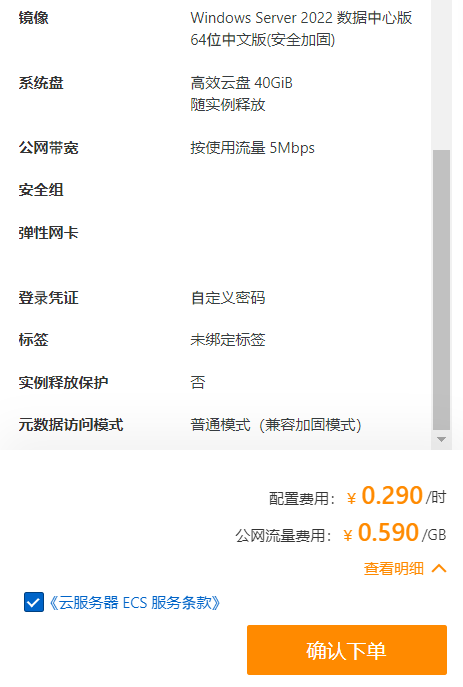
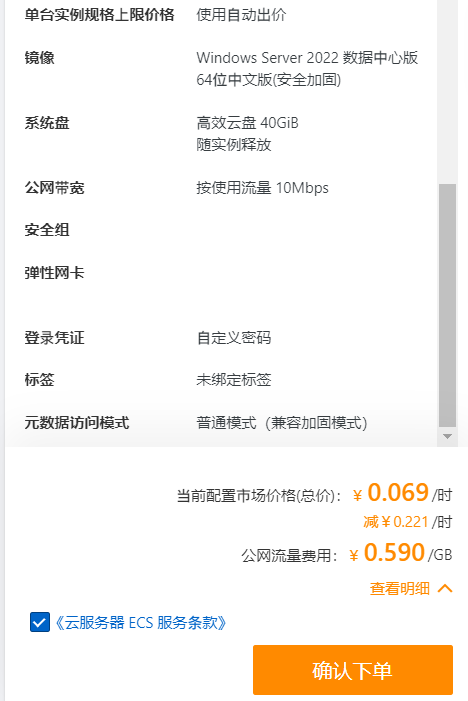
修改部分描述

diff --git a/docs/2023/04/当前环境下注册OPENAI账号的一种方法/index.html b/docs/2023/04/当前环境下注册OPENAI账号的一种方法/index.html
@@ -78,19 +78,20 @@
 </ol>
 <h2 id="为什么需要谷歌账号"><a href="#为什么需要谷歌账号" class="headerlink" title="为什么需要谷歌账号"></a>为什么需要谷歌账号</h2><p>目前OPENAI的注册逐渐收窄，只有Gmail可以稳定注册，而outlook邮箱可以概率使用，其他邮箱完全不能使用</p>
 <h2 id="为什么推荐阿里云"><a href="#为什么推荐阿里云" class="headerlink" title="为什么推荐阿里云"></a>为什么推荐阿里云</h2><p>注册需要一个用的人少，并且和cloudflare较近的服务器，阿里云作为国内云服务商，很少有人使用阿里云服务器来提供代理服务，并且提供了印度尼西亚这种节点，可以节省成本</p>
-<h1 id="具体操作"><a href="#具体操作" class="headerlink" title="具体操作"></a>具体操作</h1><h2 id="购买云服务器"><a href="#购买云服务器" class="headerlink" title="购买云服务器"></a>购买云服务器</h2><p>进入<a target="_blank" rel="noopener" href="https://ecs-buy.aliyun.com/">阿里云云服务器ECS控制台</a>，购买一个按量付费的实例，如<br><img src="/2023/04/%E5%BD%93%E5%89%8D%E7%8E%AF%E5%A2%83%E4%B8%8B%E6%B3%A8%E5%86%8COPENAI%E8%B4%A6%E5%8F%B7%E7%9A%84%E4%B8%80%E7%A7%8D%E6%96%B9%E6%B3%95/aliyun_cloud.png" alt="aliyun_cloud"><br>建议内存至少2G，CPU一核或两核足以，因为用的时间短，完全可以使用按量付费</p>
+<h1 id="具体操作"><a href="#具体操作" class="headerlink" title="具体操作"></a>具体操作</h1><h2 id="购买云服务器"><a href="#购买云服务器" class="headerlink" title="购买云服务器"></a>购买云服务器</h2><p>进入<a target="_blank" rel="noopener" href="https://ecs-buy.aliyun.com/">阿里云云服务器ECS控制台</a>，购买一个抢占型实例，如<br><img src="/2023/04/%E5%BD%93%E5%89%8D%E7%8E%AF%E5%A2%83%E4%B8%8B%E6%B3%A8%E5%86%8COPENAI%E8%B4%A6%E5%8F%B7%E7%9A%84%E4%B8%80%E7%A7%8D%E6%96%B9%E6%B3%95/alibaba_cloud.png" alt="alibaba_cloud"><br>建议内存至少2G，CPU一核或两核足以，因为用的时间短，完全可以使用按量付费</p>
 <p>因为后面需要远程桌面要服务器上面去，而Linux系统不自带桌面，所以系统选择Windows server 2022，中文与英文均可，建议不要选择2022之前的版本，因为默认浏览器为IE，不支持注册，还需要自己更换浏览器</p>
 <p>可以把默认的ESSD云盘改为高效云盘，便宜一点点</p>
 <p>流量计费建议选择按量计费，因为本身使用不了多少上行流量，还可能抹零直接全部抹掉</p>
 <p>我最后的配置是这样的</p>
 <p><img src="/2023/04/%E5%BD%93%E5%89%8D%E7%8E%AF%E5%A2%83%E4%B8%8B%E6%B3%A8%E5%86%8COPENAI%E8%B4%A6%E5%8F%B7%E7%9A%84%E4%B8%80%E7%A7%8D%E6%96%B9%E6%B3%95/config_1.png" alt="config_1"><br><img src="/2023/04/%E5%BD%93%E5%89%8D%E7%8E%AF%E5%A2%83%E4%B8%8B%E6%B3%A8%E5%86%8COPENAI%E8%B4%A6%E5%8F%B7%E7%9A%84%E4%B8%80%E7%A7%8D%E6%96%B9%E6%B3%95/config_2.png" alt="config_2"></p>
+<p>抢占型实例价格变动会比较大，可能不会是目前这个价格，但是基本上会比按量付费便宜，建议勾上无确定使用时长和自动出价，虽然理论上一个小时完全够完成全部操作，但还是以防万一</p>
 <p>之后直接下单，创建实例后下载RDP文件，等待完全启动后直接打开RDP文件使用远程桌面连接到服务器上</p>
 <h2 id="注册账号"><a href="#注册账号" class="headerlink" title="注册账号"></a>注册账号</h2><p>直接进入 <a target="_blank" rel="noopener" href="https://platform.openai.com/">https://platform.openai.com</a> （或者 <a target="_blank" rel="noopener" href="https://chat.openai.com/">https://chat.openai.com</a> 也行），然后点击sign up，建议直接使用邮箱注册而不是选择下方的sign in with google，之后验证邮箱（这里建议使用这个电脑注册谷歌账号，或者在自己电脑上注册后用自己电脑登录邮箱，防止谷歌账号被风控），一直到验证手机号这个环节</p>
 <p>之后打开sms-active，购买一个印度尼西亚的手机号，此时的价格是22.5卢布，是所有手机号里面最便宜的，然后直接输入等待验证即可，如果该手机号5分钟都没有收到验证码，则退款重新购买一个，直到验证成功（这一点没有那么严格，更换几个手机号都没有触发风控）</p>
 <p>之后通过cloudflare的验证（这一步基本上代理都是过不去的，可能还会看你的相应时间来判断是否为代理），此时正常情况下会跳转回注册前的界面，如果提示注册失败，那基本上是此时云服务器的IP有多人使用·（概率应该极低）</p>
 <h1 id="注意事项"><a href="#注意事项" class="headerlink" title="注意事项"></a>注意事项</h1><ol>
 <li>本文是仅使用APIkey的注册教程，建议注册后立刻<a target="_blank" rel="noopener" href="https://platform.openai.com/account/api-keys">获取API key</a>，然后创建一个新的API key，记录下来，之后建议不要在任何地点以任意形式登录OPENAI账号，减少被封号的可能</li>
-<li>不要在香港，台湾等代理下使用API key，因OPENAI在中国仅仅受到了DNS干扰，可以通过改hosts绕过，也不要在直连环境下尝试使用API key，这种情况下有很大概率被封号</li>
+<li>不要在香港，台湾等代理下使用API key，也不要在大陆直连环境下使用修改hosts绕过干扰的方式尝试使用API key，这种情况下有很大概率被封号</li>
 <li>正常使用API key可以试试这两个扩展<a target="_blank" rel="noopener" href="https://chrome.google.com/webstore/detail/chathub-all-in-one-chatbo/iaakpnchhognanibcahlpcplchdfmgma">ChatHub</a>，<a target="_blank" rel="noopener" href="https://chrome.google.com/webstore/detail/openai-translator/ogjibjphoadhljaoicdnjnmgokohngcc">OpenAi Translator</a></li>
 </ol>
 

diff --git a/source/_posts/2023/04/当前环境下注册OPENAI账号的一种方法.md b/source/_posts/2023/04/当前环境下注册OPENAI账号的一种方法.md
@@ -30,8 +30,8 @@ date: 2023-04-24 21:00:00
 
 ## 购买云服务器
 
-进入[阿里云云服务器ECS控制台](https://ecs-buy.aliyun.com/)，购买一个按量付费的实例，如
-![aliyun_cloud](2023/04/当前环境下注册OPENAI账号的一种方法/aliyun_cloud.png)
+进入[阿里云云服务器ECS控制台](https://ecs-buy.aliyun.com/)，购买一个抢占型实例，如
+![alibaba_cloud](2023/04/当前环境下注册OPENAI账号的一种方法/alibaba_cloud.png)
 建议内存至少2G，CPU一核或两核足以，因为用的时间短，完全可以使用按量付费
 
 因为后面需要远程桌面要服务器上面去，而Linux系统不自带桌面，所以系统选择Windows server 2022，中文与英文均可，建议不要选择2022之前的版本，因为默认浏览器为IE，不支持注册，还需要自己更换浏览器
@@ -44,6 +44,8 @@ date: 2023-04-24 21:00:00
 
 ![config_1](2023/04/当前环境下注册OPENAI账号的一种方法/config_1.png)
 ![config_2](2023/04/当前环境下注册OPENAI账号的一种方法/config_2.png)
+
+抢占型实例价格变动会比较大，可能不会是目前这个价格，但是基本上会比按量付费便宜，建议勾上无确定使用时长和自动出价，虽然理论上一个小时完全够完成全部操作，但还是以防万一
 
 之后直接下单，创建实例后下载RDP文件，等待完全启动后直接打开RDP文件使用远程桌面连接到服务器上
 
@@ -58,5 +60,5 @@ date: 2023-04-24 21:00:00
 # 注意事项
 
 1. 本文是仅使用APIkey的注册教程，建议注册后立刻[获取API key](https://platform.openai.com/account/api-keys)，然后创建一个新的API key，记录下来，之后建议不要在任何地点以任意形式登录OPENAI账号，减少被封号的可能
-2. 不要在香港，台湾等代理下使用API key，因OPENAI在中国仅仅受到了DNS干扰，可以通过改hosts绕过，也不要在直连环境下尝试使用API key，这种情况下有很大概率被封号
+2. 不要在香港，台湾等代理下使用API key，也不要在大陆直连环境下使用修改hosts绕过干扰的方式尝试使用API key，这种情况下有很大概率被封号
 3. 正常使用API key可以试试这两个扩展[ChatHub](https://chrome.google.com/webstore/detail/chathub-all-in-one-chatbo/iaakpnchhognanibcahlpcplchdfmgma)，[OpenAi Translator](https://chrome.google.com/webstore/detail/openai-translator/ogjibjphoadhljaoicdnjnmgokohngcc)
